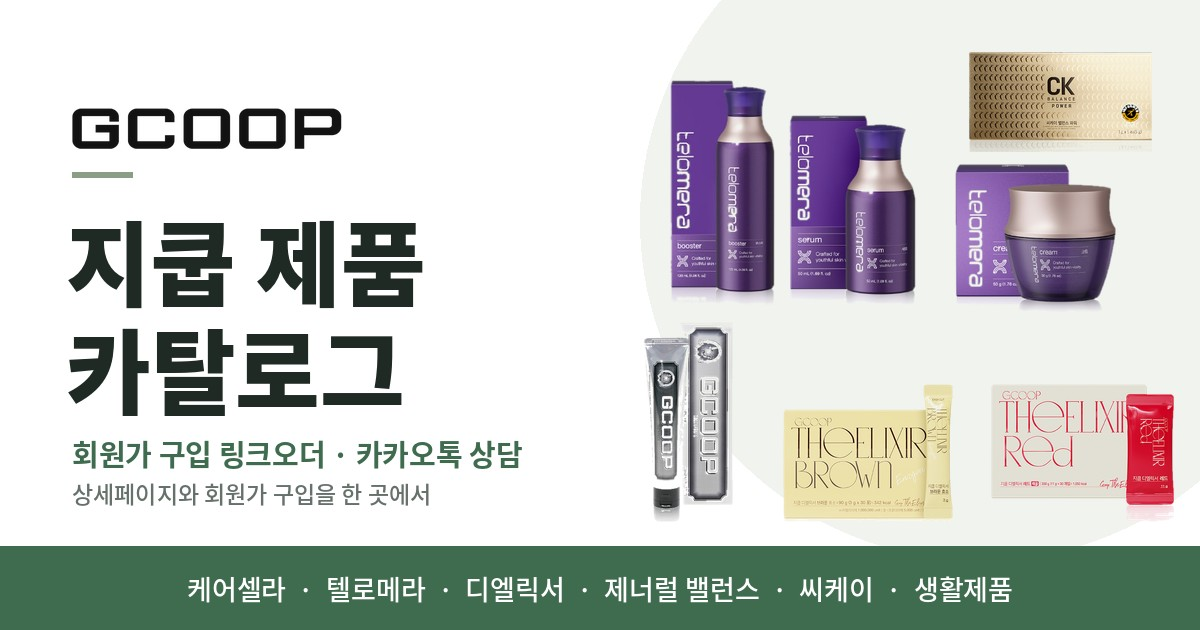
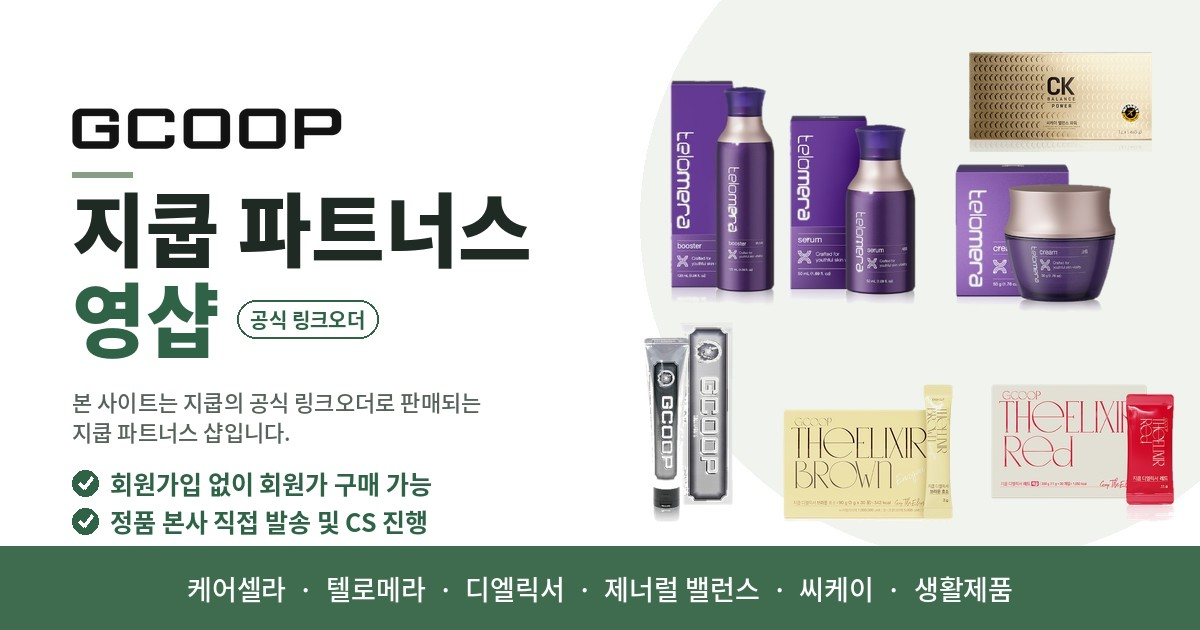
미리보기 이미지를 '지쿱 파트너스 영샵' 문구로 교체
og.jpg에 공식 링크오더 안내 문구를 넣고, 미리보기 제목·설명도 같은 내용으로 맞춤.

Claude-Session: https://claude.ai/code/session_018U2VxgpGh6gxDGYNpBfS32

Changed region(s): [[0.0617, 0.3016, 0.4625, 0.8746]]

diff --git a/index.html b/index.html
@@ -4,24 +4,24 @@
 <meta charset="utf-8">
 <meta name="viewport" content="width=device-width,initial-scale=1,viewport-fit=cover">
 <meta name="description" content="지쿱 제품 64종을 회원가입 없이 회원가 링크오더로 구입하는 지쿱 영샵. 본사 정품 직접 발송, 카카오톡 상담.">
-<meta property="og:title" content="지쿱 영샵 | 회원가 링크오더 스토어">
-<meta property="og:description" content="케어셀라, 텔로메라, 제너럴 밸런스 등 지쿱 제품을 회원가 링크오더로 바로 구입하세요.">
+<meta property="og:title" content="지쿱 파트너스 영샵 | 지쿱 공식 링크오더 샵">
+<meta property="og:description" content="지쿱의 공식 링크오더로 판매되는 지쿱 파트너스 샵입니다. 회원가입 없이 회원가 구매 가능, 정품 본사 직접 발송 및 CS 진행.">
 <meta property="og:type" content="website">
 <meta property="og:url" content="https://aigcoop.github.io/GCOOP_young_shop/">
-<meta property="og:site_name" content="지쿱 영샵">
+<meta property="og:site_name" content="지쿱 파트너스 영샵">
 <meta property="og:locale" content="ko_KR">
-<meta property="og:image" content="https://aigcoop.github.io/GCOOP_young_shop/images/og.jpg">
-<meta property="og:image:secure_url" content="https://aigcoop.github.io/GCOOP_young_shop/images/og.jpg">
+<meta property="og:image" content="https://aigcoop.github.io/GCOOP_young_shop/images/og.jpg?v=2">
+<meta property="og:image:secure_url" content="https://aigcoop.github.io/GCOOP_young_shop/images/og.jpg?v=2">
 <meta property="og:image:type" content="image/jpeg">
 <meta property="og:image:width" content="1200">
 <meta property="og:image:height" content="630">
-<meta property="og:image:alt" content="지쿱 영샵 회원가 링크오더 스토어">
+<meta property="og:image:alt" content="지쿱 파트너스 영샵 - 지쿱 공식 링크오더 샵">
 <meta name="twitter:card" content="summary_large_image">
-<meta name="twitter:title" content="지쿱 영샵 | 회원가 링크오더 스토어">
-<meta name="twitter:description" content="케어셀라, 텔로메라, 제너럴 밸런스 등 지쿱 제품을 회원가 링크오더로 바로 구입하세요.">
-<meta name="twitter:image" content="https://aigcoop.github.io/GCOOP_young_shop/images/og.jpg">
+<meta name="twitter:title" content="지쿱 파트너스 영샵 | 지쿱 공식 링크오더 샵">
+<meta name="twitter:description" content="지쿱의 공식 링크오더로 판매되는 지쿱 파트너스 샵입니다. 회원가입 없이 회원가 구매 가능, 정품 본사 직접 발송 및 CS 진행.">
+<meta name="twitter:image" content="https://aigcoop.github.io/GCOOP_young_shop/images/og.jpg?v=2">
 <style>:root{padding-top:env(safe-area-inset-top,0px);padding-bottom:env(safe-area-inset-bottom,0px)}body{margin:0}img{max-width:100%}[hidden]{display:none!important}</style>
-<title>지쿱 영샵 | 회원가 링크오더 스토어</title>
+<title>지쿱 파트너스 영샵 | 지쿱 공식 링크오더 샵</title>
 <meta name="claude:viewport-fit-sides" content="cover">
 <link rel="preconnect" href="https://fonts.googleapis.com">
 <link rel="stylesheet" href="https://fonts.googleapis.com/css2?family=Gowun+Batang:wght@400;700&family=IBM+Plex+Sans+KR:wght@400;500;600;700&family=IBM+Plex+Mono:wght@500&display=swap">
